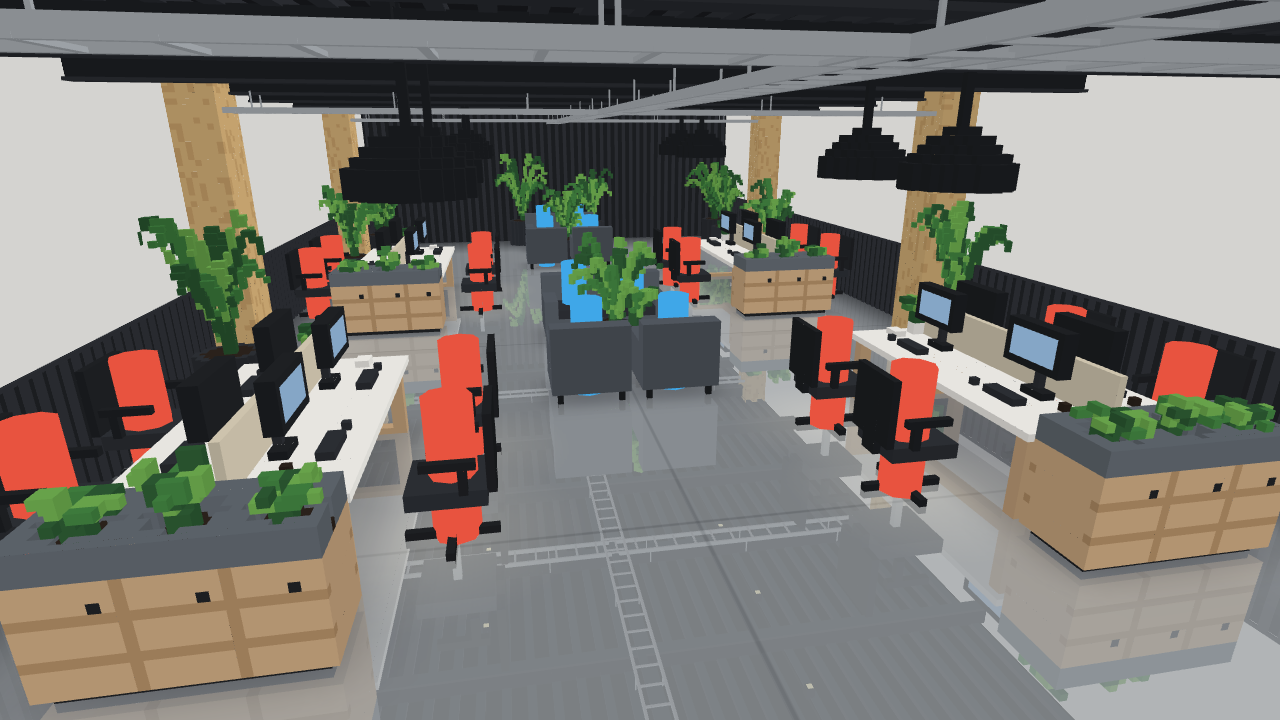
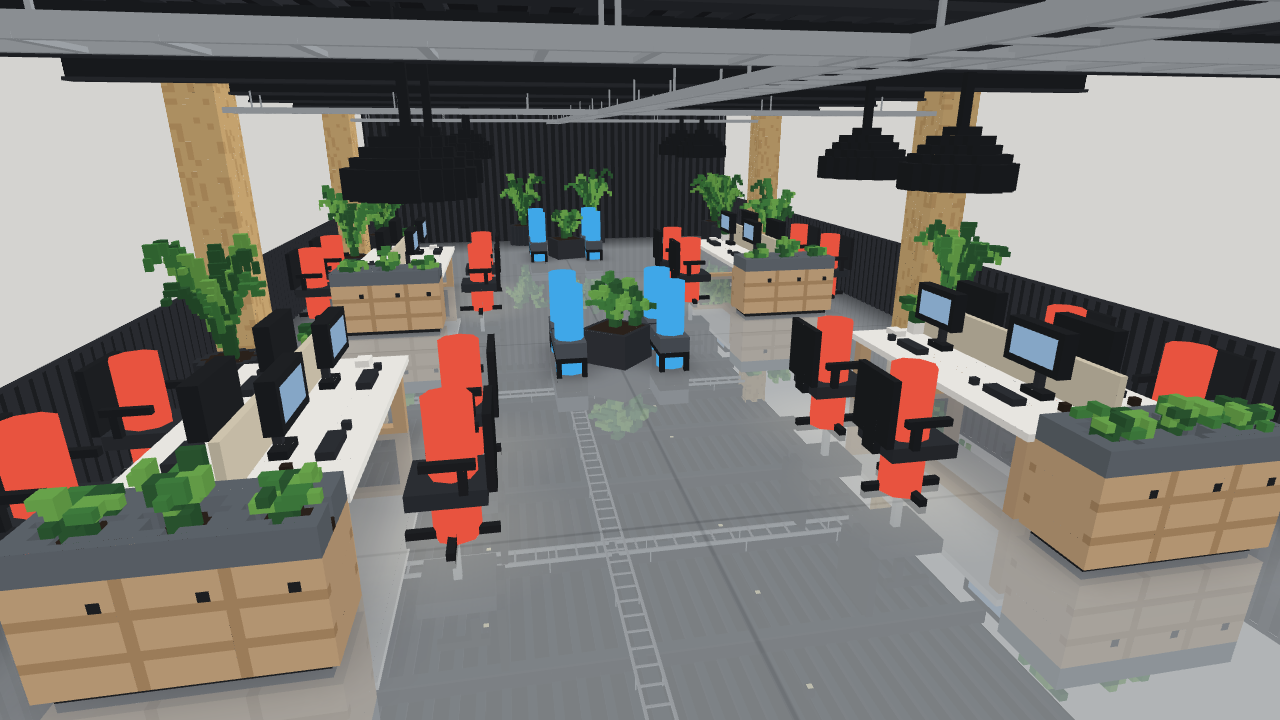
feat(office): bancos sin respaldo a los lados de la planta del pasillo y plantas grandes más chicas
Los lugares extra del pasillo pasan a 2 bancos sin respaldo a izquierda y derecha de la
maceta central (8 lugares, mismo total); la planta central y las plantas de piso más
grandes se achican; el resto de las plantas queda igual. Capturas actualizadas.

diff --git a/office/src/layout.ts b/office/src/layout.ts
@@ -14,7 +14,7 @@ export interface Vec3 { x: number; y: number; z: number }
  */
 export interface Seat { id: number; position: Vec3; facing: number; island: number }
 
-export type PropKind = 'desk' | 'cabinet' | 'chair' | 'column' | 'plant' | 'planter' | 'sofa' | 'armchair';
+export type PropKind = 'desk' | 'cabinet' | 'chair' | 'column' | 'plant' | 'planter' | 'bench';
 
 /** Un mueble en planta: centro (x, z), medidas ya giradas (w a lo largo de x, d a lo largo de z) y giro para el modelo. */
 export interface Prop { kind: PropKind; x: number; z: number; w: number; d: number; rot: number; island?: number; seats?: number; size?: number }
@@ -26,7 +26,7 @@ export const ROOM = { length: 20, width: 9.6, height: 3.6, aisleHalf: 1.4 } as c
 /** Altura del asiento de las sillas y sillones. */
 export const SEAT_HEIGHT = 0.46;
 /** Lo único que puede estar dentro de la franja del pasillo. */
-export const AISLE_PROP_KINDS: readonly PropKind[] = ['plant', 'planter', 'sofa', 'armchair'];
+export const AISLE_PROP_KINDS: readonly PropKind[] = ['plant', 'planter', 'bench'];
 
 const DESK_LEN = 2.8;      // largo de la isla (a lo largo del salón): 2 puestos de 1,4 m por lado
 const DESK_DEPTH = 1.5;    // dos escritorios de 0,75 m espalda con espalda
@@ -86,28 +86,28 @@ export function officeLayout(): OfficeLayout {
     props.push({ kind: 'column', x, z: wall * (ROOM.width / 2 - 0.25), w: 0.6, d: 0.5, rot: 0 });
   }
 
-  // Centro del pasillo: maceta grande entre un sillón doble y dos sillones individuales (lugares extra para sesiones de más).
+  // Centro del pasillo: maceta con una planta mediana y un banco SIN respaldo a cada lado (izquierda y derecha, a lo ancho del
+  // pasillo). Cada banco tiene 2 lugares extra (sesiones de más), sentados mirando hacia afuera. Entre el banco y el borde del
+  // pasillo quedan ≥ 0,5 m para pasar, y estas islas de descanso caen entre las islas de escritorios (no hay sillas al lado).
+  const PLANTER = 0.7, BENCH_W = 1.4, BENCH_D = 0.42, GAP = 0.08;
   for (const xc of LOUNGE_X) {
-    props.push({ kind: 'planter', x: xc, z: 0, w: 0.8, d: 0.8, rot: 0 });
-    // sillón doble del lado del fondo, mirando a la entrada (-x)
-    const sx = xc + 1.15;
-    props.push({ kind: 'sofa', x: sx, z: 0, w: 0.85, d: 1.7, rot: -Math.PI / 2, seats: 2 });
-    for (const z of [-0.42, 0.42]) extraSeats.push({ id: 16 + extraSeats.length, position: { x: sx, y: 0, z }, facing: -Math.PI / 2, island: -1 });
-    // dos sillones individuales del lado de la entrada, mirando al fondo (+x)
-    const ax = xc - 1.15;
-    for (const z of [-0.5, 0.5]) {
-      props.push({ kind: 'armchair', x: ax, z, w: 0.8, d: 0.8, rot: Math.PI / 2, seats: 1 });
-      extraSeats.push({ id: 16 + extraSeats.length, position: { x: ax, y: 0, z }, facing: Math.PI / 2, island: -1 });
+    props.push({ kind: 'planter', x: xc, z: 0, w: PLANTER, d: PLANTER, rot: 0 });
+    for (const side of [-1, 1]) {
+      const bz = side * (PLANTER / 2 + GAP + BENCH_D / 2);
+      props.push({ kind: 'bench', x: xc, z: bz, w: BENCH_W, d: BENCH_D, rot: 0, seats: 2 });
+      for (const dx of [-0.42, 0.42]) {
+        extraSeats.push({ id: 16 + extraSeats.length, position: { x: xc + dx, y: 0, z: bz }, facing: side > 0 ? 0 : Math.PI, island: -1 });
+      }
     }
   }
 
   // Muchas plantas: grandes en los rincones y entre columnas, contra las paredes (fuera del pasillo).
-  const wallPlants: Array<[number, number]> = [[0.6, 1.0], [8.4, 1.0], [15.1, 0.8], [19.3, 1.1], [18.2, 0.8]];
+  const wallPlants: Array<[number, number]> = [[0.6, 0.75], [8.4, 0.75], [15.1, 0.8], [19.3, 0.8], [18.2, 0.8]];
   for (const [x, size] of wallPlants) for (const wall of [-1, 1]) {
     props.push({ kind: 'plant', x, z: wall * (ROOM.width / 2 - 0.45), w: 0.6, d: 0.6, rot: 0, size });
   }
   // dos más en el centro del pasillo, al fondo, junto a la pared acanalada
-  props.push({ kind: 'plant', x: 19.4, z: -0.9, w: 0.6, d: 0.6, rot: 0, size: 1.2 }, { kind: 'plant', x: 19.4, z: 0.9, w: 0.6, d: 0.6, rot: 0, size: 0.9 });
+  props.push({ kind: 'plant', x: 19.4, z: -0.9, w: 0.6, d: 0.6, rot: 0, size: 0.8 }, { kind: 'plant', x: 19.4, z: 0.9, w: 0.6, d: 0.6, rot: 0, size: 0.9 });
 
   return { room: ROOM, islands, seats, extraSeats, props, lamps };
 }

diff --git a/office/src/furniture.ts b/office/src/furniture.ts
@@ -170,33 +170,20 @@ export function plantGeometry(size: number, seed: number): THREE.BufferGeometry 
 /** Maceta baja y ancha del centro del pasillo, con una planta grande. */
 export function planterGeometry(seed: number): THREE.BufferGeometry {
   return bake(g => {
-    g.box(-6, 0, -6, 7, 7, 7, PAL.black2);
-    g.box(-5, 6, -5, 6, 7, 6, PAL.soil);
-    drawPlant(g, 0, 7, 0, 18, 9, seed, 16);
-    drawPlant(g, 3, 7, -3, 9, 5, seed + 5, 7);
+    g.box(-5, 0, -5, 6, 7, 6, PAL.black2);
+    g.box(-4, 6, -4, 5, 7, 5, PAL.soil);
+    drawPlant(g, 0, 7, 0, 10, 6, seed, 13);
+    drawPlant(g, 3, 7, -3, 6, 4, seed + 5, 6);
   });
 }
 
-/** Sillón doble (frente a +z). */
-export function sofaGeometry(): THREE.BufferGeometry {
+/** Banco tapizado SIN respaldo (largo a lo largo de x): 1,4 × 0,42 m, asiento a 0,45 m, patas negras. */
+export function benchGeometry(): THREE.BufferGeometry {
   return bake(g => {
-    for (const x of [-13, 12]) for (const z of [-6, 5]) g.box(x, 0, z, x + 1, 2, z + 1, PAL.black);
-    g.box(-14, 2, -7, 14, 6, 7, PAL.sofa);
-    g.box(-11, 6, -3, -0, 8, 7, PAL.black2);
-    g.box(0, 6, -3, 11, 8, 7, PAL.black2);
-    g.box(-14, 6, -7, 14, 14, -3, PAL.sofa);
-    for (const x of [-14, 11]) g.box(x, 6, -7, x + 3, 10, 7, PAL.sofa);
-  });
-}
-
-/** Sillón individual (frente a +z). */
-export function armchairGeometry(): THREE.BufferGeometry {
-  return bake(g => {
-    for (const x of [-6, 5]) for (const z of [-6, 5]) g.box(x, 0, z, x + 1, 2, z + 1, PAL.black);
-    g.box(-7, 2, -7, 7, 6, 7, PAL.sofa);
-    g.box(-4, 6, -3, 4, 8, 7, PAL.black2);
-    g.box(-7, 6, -7, 7, 14, -3, PAL.sofa);
-    for (const x of [-7, 4]) g.box(x, 6, -7, x + 3, 10, 7, PAL.sofa);
+    for (const x of [-11, 10]) for (const z of [-3, 2]) g.box(x, 0, z, x + 1, 3, z + 1, PAL.black);
+    g.box(-11, 3, -3, 11, 4, 3, PAL.black);                 // bastidor
+    g.box(-11, 4, -3, 11, 7, 3, PAL.sofa);                  // almohadón
+    g.box(0, 6, -3, 1, 7, 3, PAL.black2);                   // costura al medio (2 lugares)
   });
 }
 

diff --git a/office/src/room.ts b/office/src/room.ts
@@ -5,8 +5,8 @@ import * as THREE from 'three';
 import { mergeGeometries } from 'three/examples/jsm/utils/BufferGeometryUtils.js';
 import { officeLayout, ROOM, type OfficeLayout, type Seat } from './layout';
 import {
-  PAL, armchairGeometry, cabinetGeometry, chairGeometry, columnGeometry, deskGeometry, lampGeometry, planterGeometry,
-  plantGeometry, sofaGeometry,
+  PAL, benchGeometry, cabinetGeometry, chairGeometry, columnGeometry, deskGeometry, lampGeometry, planterGeometry,
+  plantGeometry,
 } from './furniture';
 
 // Brillo horneado por dirección (igual que la grilla voxel de kit3d): +x -x +y -y +z -z.
@@ -114,7 +114,7 @@ function lampParts(L: OfficeLayout): THREE.BufferGeometry[] {
 
 function furnitureParts(L: OfficeLayout): THREE.BufferGeometry[] {
   const out: THREE.BufferGeometry[] = [];
-  const desk = deskGeometry(), chair = chairGeometry(), sofa = sofaGeometry(), arm = armchairGeometry();
+  const desk = deskGeometry(), chair = chairGeometry(), bench = benchGeometry();
   const column = columnGeometry(ROOM.height);
   let seed = 3;
   for (const p of L.props) {
@@ -126,11 +126,10 @@ function furnitureParts(L: OfficeLayout): THREE.BufferGeometry[] {
       case 'column': out.push(place(column, p.x, 0, p.z)); break;
       case 'plant': out.push(place(plantGeometry(p.size ?? 1, seed++), p.x, 0, p.z, seed)); break;
       case 'planter': out.push(place(planterGeometry(seed++), p.x, 0, p.z, seed)); break;
-      case 'sofa': out.push(place(sofa, p.x, 0, p.z, p.rot)); break;
-      case 'armchair': out.push(place(arm, p.x, 0, p.z, p.rot)); break;
+      case 'bench': out.push(place(bench, p.x, 0, p.z, p.rot)); break;
     }
   }
-  for (const g of [desk, chair, sofa, arm, column]) g.dispose();
+  for (const g of [desk, chair, bench, column]) g.dispose();
   return out;
 }
 

diff --git a/office/src/layout.test.ts b/office/src/layout.test.ts
@@ -59,10 +59,25 @@ describe('layout de la oficina', () => {
     const intruders = L.props.filter(p => inAisle(p) && !AISLE_PROP_KINDS.includes(p.kind));
     expect(intruders).toEqual([]);
     // y sí hay plantas y sillones en el centro
-    expect(L.props.some(p => inAisle(p) && (p.kind === 'sofa' || p.kind === 'armchair'))).toBe(true);
+    expect(L.props.some(p => inAisle(p) && p.kind === 'bench')).toBe(true);
     expect(L.props.some(p => inAisle(p) && (p.kind === 'planter' || p.kind === 'plant'))).toBe(true);
     // los lugares extra de los sillones caen en el pasillo
     expect(L.extraSeats.every(s => Math.abs(s.position.z) < ROOM.aisleHalf)).toBe(true);
+  });
+
+  it('aisle_benches_flank_the_planter_and_leave_room_to_walk', () => {
+    const planters = L.props.filter(p => p.kind === 'planter');
+    expect(planters.length).toBeGreaterThan(0);
+    for (const pl of planters) {
+      // un banco sin respaldo a cada lado de la planta, a lo ancho del pasillo (misma x, z a izquierda y derecha)
+      const benches = L.props.filter(p => p.kind === 'bench' && Math.abs(p.x - pl.x) < 0.01);
+      expect(benches).toHaveLength(2);
+      expect(benches.some(b => b.z < pl.z - pl.d / 2) && benches.some(b => b.z > pl.z + pl.d / 2)).toBe(true);
+      // queda al menos 0,5 m libre entre el banco y el borde del pasillo para pasar
+      for (const b of benches) expect(ROOM.aisleHalf - (Math.abs(b.z) + b.d / 2)).toBeGreaterThanOrEqual(0.5);
+    }
+    // nada de sillones con respaldo en el pasillo
+    expect(L.props.some(p => (p.kind as string) === 'sofa' || (p.kind as string) === 'armchair')).toBe(false);
   });
 
   it('seats_face_their_desk', () => {
